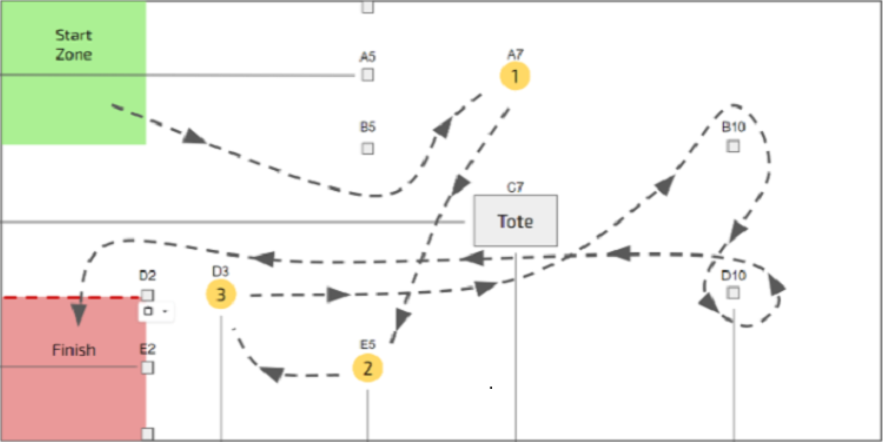
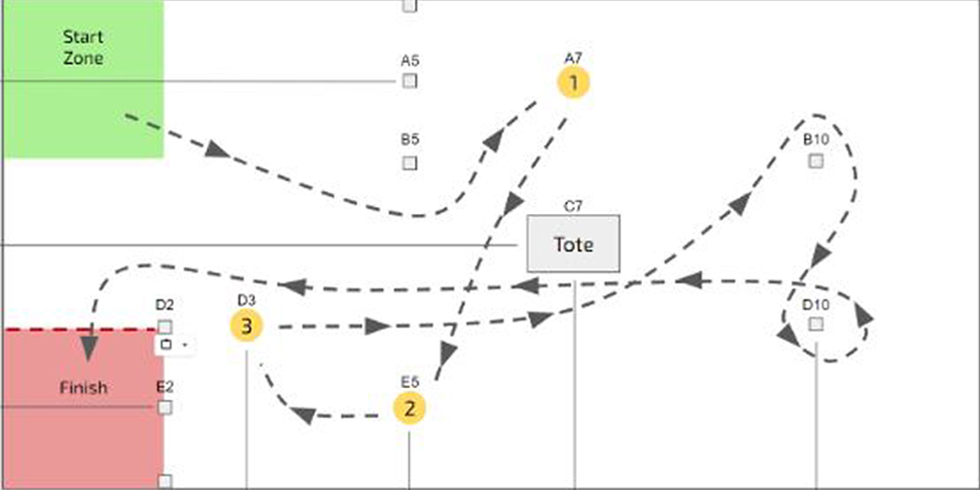
Add snow thrower and snow removal paths, snow thrower with swerve snow removal with differential

diff --git a/src/main/java/com/team1816/frc2020/auto/modes/modes2021/SnowThrowerMode.java b/src/main/java/com/team1816/frc2020/auto/modes/modes2021/SnowThrowerMode.java
@@ -1,0 +1,36 @@
+package com.team1816.frc2020.auto.modes.modes2021;
+
+import com.team1816.frc2020.auto.actions.actions2020.TurretModeAction;
+import com.team1816.frc2020.paths.TrajectorySet;
+import com.team1816.frc2020.subsystems.Turret;
+import com.team1816.lib.auto.AutoModeEndedException;
+import com.team1816.lib.auto.actions.DriveTrajectory;
+import com.team1816.lib.auto.actions.SeriesAction;
+import com.team1816.lib.auto.modes.AutoModeBase;
+
+public class BounceMode extends AutoModeBase {
+    private DriveTrajectory trajectory1;
+    private DriveTrajectory trajectory2;
+    private DriveTrajectory trajectory3;
+    private DriveTrajectory trajectory4;
+
+    public BounceMode() {
+        trajectory1 = new DriveTrajectory(TrajectorySet.getInstance().BOUNCE_PATH_1, true);
+        trajectory2 = new DriveTrajectory(TrajectorySet.getInstance().BOUNCE_PATH_2, false);
+        trajectory3 = new DriveTrajectory(TrajectorySet.getInstance().BOUNCE_PATH_3, false);
+        trajectory4 = new DriveTrajectory(TrajectorySet.getInstance().BOUNCE_PATH_4, false);
+    }
+
+    @Override
+    protected void routine() throws AutoModeEndedException {
+        runAction(
+            new SeriesAction(
+                new TurretModeAction(Turret.ControlMode.FIELD_FOLLOWING),
+                trajectory1,
+                trajectory2,
+                trajectory3,
+                trajectory4
+            )
+        );
+    }
+}

diff --git a/src/main/java/com/team1816/frc2020/paths/paths2021/SnowThrower2.java b/src/main/java/com/team1816/frc2020/paths/paths2021/SnowThrower2.java
@@ -1,0 +1,29 @@
+package com.team1816.frc2020.paths.paths2021;
+
+import com.team1816.lib.paths.PathContainer;
+import com.team254.lib.control.Path;
+import com.team254.lib.geometry.Pose2d;
+
+import java.util.List;
+
+public class SnowThrower1 implements PathContainer {
+
+    @Override
+    public Path buildPath() {
+        return null;
+    }
+
+    @Override
+    public List<Pose2d> buildWaypoints() {
+        return List.of(
+            new Pose2d(46, 90, 0),
+            new Pose2d(91, 140, 90)
+        );
+    }
+
+
+    @Override
+    public boolean isReversed() {
+        return false;
+    }
+}

diff --git a/src/main/java/com/team1816/frc2020/paths/paths2021/SnowThrower3.java b/src/main/java/com/team1816/frc2020/paths/paths2021/SnowThrower3.java
@@ -1,0 +1,29 @@
+package com.team1816.frc2020.paths.paths2021;
+
+import com.team1816.lib.paths.PathContainer;
+import com.team254.lib.control.Path;
+import com.team254.lib.geometry.Pose2d;
+
+import java.util.List;
+
+public class SnowThrower1 implements PathContainer {
+
+    @Override
+    public Path buildPath() {
+        return null;
+    }
+
+    @Override
+    public List<Pose2d> buildWaypoints() {
+        return List.of(
+            new Pose2d(46, 90, 0),
+            new Pose2d(91, 140, 90)
+        );
+    }
+
+
+    @Override
+    public boolean isReversed() {
+        return false;
+    }
+}

diff --git a/src/main/java/com/team1816/frc2020/auto/modes/modes2021/SnowRemovalMode.java b/src/main/java/com/team1816/frc2020/auto/modes/modes2021/SnowRemovalMode.java
@@ -1,0 +1,2 @@
+package com.team1816.frc2020.auto.modes.modes2021;public class SnowRemovalMode {
+}

diff --git a/src/main/java/com/team1816/frc2020/paths/paths2021/SnowRemovalPath.java b/src/main/java/com/team1816/frc2020/paths/paths2021/SnowRemovalPath.java
@@ -1,0 +1,2 @@
+package com.team1816.frc2020.paths.paths2021;public class SnowRemovalPath {
+}

diff --git a/src/main/java/com/team1816/frc2020/paths/paths2021/SnowThrower1.java b/src/main/java/com/team1816/frc2020/paths/paths2021/SnowThrower1.java
@@ -1,0 +1,2 @@
+package com.team1816.frc2020.paths.paths2021;public class SnowThrower1 {
+}
